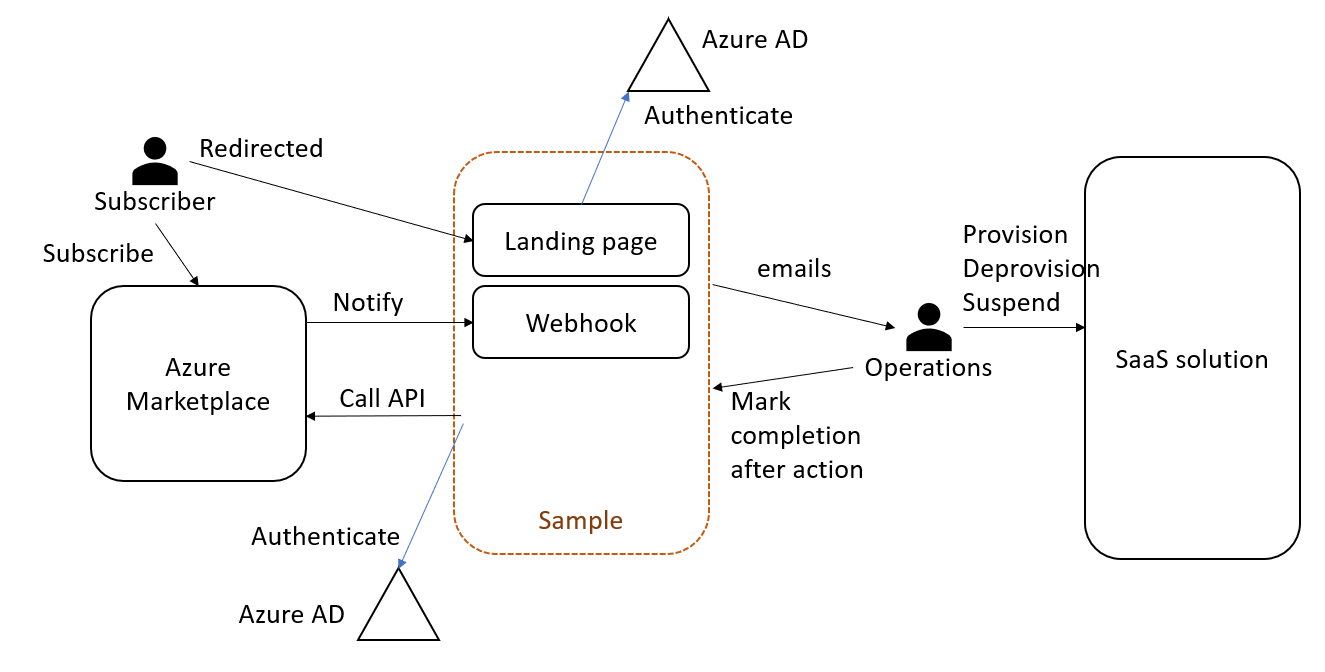
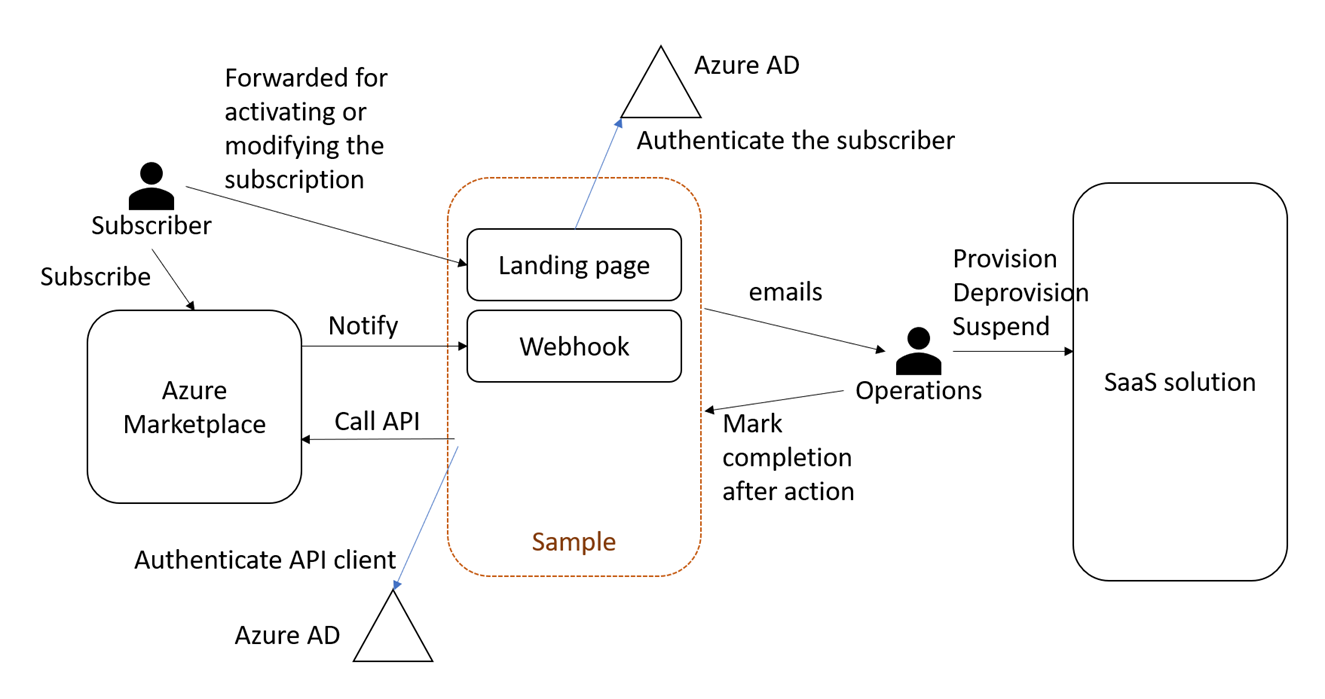
Typos, figures

diff --git a/README.md b/README.md
@@ -20,7 +20,7 @@ A SaaS solution publisher needs to integrate with the Azure Marketplace commerce
 
 Azure Marketplace talks to a SaaS solution on two channels,
 
-- [Landing page](###-Landing-page): The Azure Marketplace redirects the subscriber to this page maintained by the subscriber to capture the details for provisioning the solution for the subscriber.
+- [Landing page](###-Landing-page): The Azure Marketplace sends the subscriber to this page maintained by the publisher to capture the details for provisioning the solution for the subscriber. The subscriber is on this page for the activating the subscription, or modifying it.
 - [Webhook](###-Webhook-endpoint): This is an endpoint where the Azure Marketplace notifies the solution for the events such as subscription cancel and update, or suspend request for the subscription, should the customer's payment method becomes unusable.
 
 The SaaS solution in turn uses the REST API exposed on the Azure Marketplace side to perform corresponding operations. Those can be activating, cancelling, updating a subscription.
@@ -163,13 +163,13 @@ Follow the steps in the [tutorial](https://docs.microsoft.com/en-us/azure/sendgr
 
 ## Running the sample
 
-You can run the sample either in Docker by building an image using the Dockerfile on the src/Dashboard folder, or running with ```dotnet run``` in the "ContosoAMPBasic\src\Dashboard" folder. Once you run the application, you need to grab the URL and update the "redirect URLs" section of the multi-tenant AD application's "Authentican" settings. E.g. if you run using ```dotnet run```, make sure to add https://localhost:5001/ and https://localhost:5001/signin-oidc to the URL list.
+You can run the sample either in Docker by building an image using the Dockerfile on the src/Dashboard folder, or running with ```dotnet run``` in the "ContosoAMPBasic\src\Dashboard" folder. Once you run the application, you need to grab the URL and update the "redirect URLs" section of the multi-tenant AD application's "Authentication" settings. E.g. if you run using ```dotnet run```, make sure to add https://localhost:5001/ and https://localhost:5001/signin-oidc to the URL list.
 
 The default page uses the "Dashboard:DashboardAdmin" value to authorize the logged on user. Make sure to set it to your email in the configuration. The default page queries the marketplace API to list the subscriptions to the offers.
 
 ![offersubscriptions](./Docs/offersubscriptions.png)
 
-The sample uses the mock API with its default "FulfillmentClient:FulfillmentService" settings. 
+The sample uses the mock API with its default "FulfillmentClient:FulfillmentService" settings.
 
 Now you want to navigate to the landing page to simulate a redirect. Append "/landingpage?token=wwww" to the URL. It should look something like this, "https://localhost:5001/landingpage?token=wwww".
 
